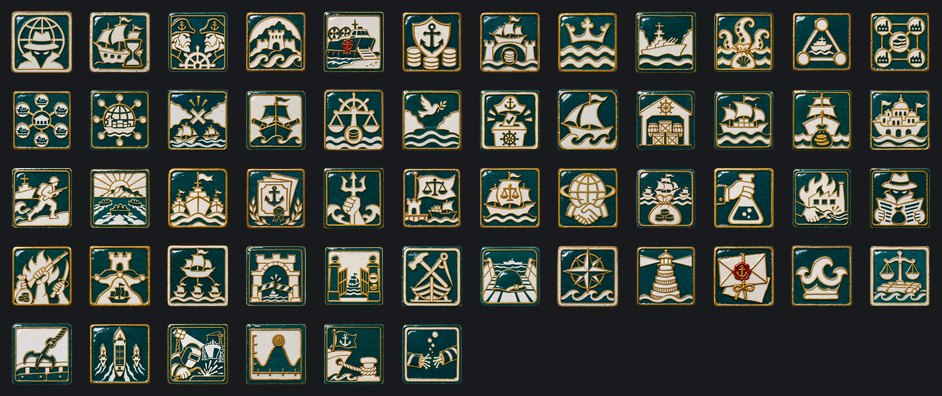
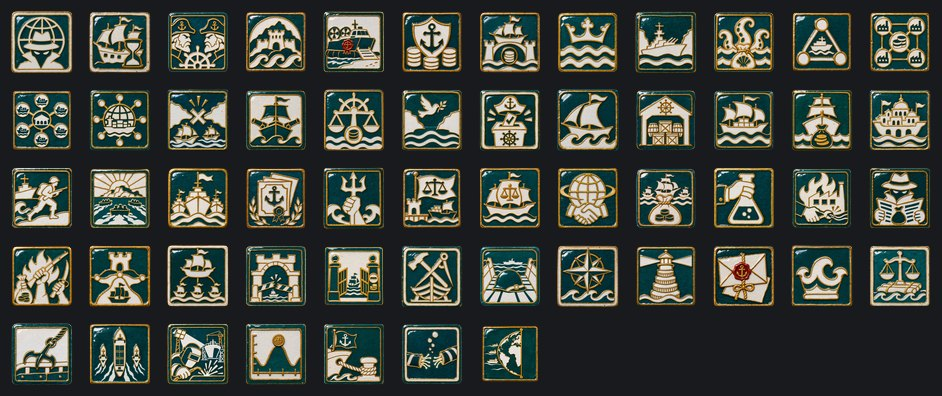
Mapa, prueba B del Pacífico: map_color_rgb opcional (solo HSN, SHD y ZJP en pastel); color_ui sigue siendo la identidad; brillo/saturación del juego sin tocar (override listo y apagado). Paneles: texto y acciones con barra de desplazamiento como las listas del juego; acciones condicionales al final;
Claude-Session: https://claude.ai/code/session_01A8YHnneTfjLNB5b1kqBkEs

Changed region(s): [[0.4926, 0.8182, 0.5849, 0.9697]]

diff --git a/tools/gen/emitters/paneles.py b/tools/gen/emitters/paneles.py
@@ -109,7 +109,7 @@ def emit(ctx: BuildContext) -> None:
     fx, fy, flado = posicion_ficha()
     ix, iy = arte.ICONO
     gui.append('\tcontainerWindowType = {\n\t\tname = "mn_panel_politica_window"\n'
-               f'\t\tposition = {{ x = {fx + 208} y = {fy + (flado - iy) // 2} }}\n'
+               f'\t\tposition = {{ x = {fx + 200} y = {fy + (flado - iy) // 2} }}\n'
                f'\t\tsize = {{ width = {ix} height = {iy} }}\n\t\torientation = upper_left\n')
     for p in hay:
         gui.append(f'\t\tbuttonType = {{\n\t\t\tname = "abrir_{p}"\n\t\t\tposition = {{ x = 0 y = 0 }}\n'
@@ -177,30 +177,34 @@ def emit(ctx: BuildContext) -> None:
                  f'\t\t\tposition = {{ x = {mx0 + (mx1 - mx0 - lado) // 2} y = {my0 + 4} }}\n\t\t\tscale = {escala}\n'
                  f'\t\t\tpdx_tooltip = "MN_PANEL_BOTON_TT_{p}"\n\t\t}}\n')
         g.append(_texto("valor", mx0 + 10, my1 - 30, f"MN_PANEL_VALOR_{p}", "hoi_18mbs", mx1 - mx0 - 20, 24, "centre"))
-        # el texto, con barra de desplazamiento
-        g.append(f'\t\tcontainerWindowType = {{\n\t\t\tname = "texto_caja"\n\t\t\tposition = {{ x = {tx0 + 8} y = {ty0 + 6} }}\n'
-                 f'\t\t\tsize = {{ width = {tx1 - tx0 - 14} height = {ty1 - ty0 - 12} }}\n'
-                 '\t\t\tverticalScrollbar = "right_vertical_slider"\n\t\t\tscroll_wheel_factor = 40\n\t\t\tsmooth_scrolling = yes\n'
-                 '\t\t\tmargin = { top = 2 bottom = 2 }\n'
-                 + _texto("texto", 0, 0, f"MN_PANEL_TEXTO_{p}", "hoi_16mbs", tx1 - tx0 - 40, 1400, "left", fijo=False, tab="\t\t\t")
-                 + "\t\t}\n")
-        # las acciones, en dos columnas, con barra de desplazamiento
+        # el texto, con barra de desplazamiento (2026-11-15, captura: el texto y los botones se salían
+        # del marco): como las listas del juego, el contenedor con barra lleva fondo (transparente),
+        # recorta (clipping) y adentro un contenedor del alto del contenido
+        tw, th = tx1 - tx0 - 14, ty1 - ty0 - 12
+        alto_texto = _alto_texto(ctx, cfg["categorias"], tw - 30)
+        g.append(_caja_con_barra("texto_caja", tx0 + 8, ty0 + 6, tw, th, alto_texto,
+                                 _texto("texto", 0, 0, f"MN_PANEL_TEXTO_{p}", "hoi_16mbs", tw - 30, alto_texto, "left",
+                                        tab="\t\t\t\t")))
+        # las acciones, en dos columnas: primero las que se ven siempre, al final las que aparecen
+        # solo a veces (restaurar una productora...), así sus huecos quedan abajo
         ax0, ay0, ax1, ay1 = z["acciones"]
         lista = [a for c in cfg["categorias"] for a in acciones.get(c, [])]
-        g.append(f'\t\tcontainerWindowType = {{\n\t\t\tname = "acciones"\n\t\t\tposition = {{ x = {ax0 + 6} y = {ay0 + 6} }}\n'
-                 f'\t\t\tsize = {{ width = {ax1 - ax0 - 12} height = {ay1 - ay0 - 12} }}\n'
-                 '\t\t\tverticalScrollbar = "right_vertical_slider"\n\t\t\tscroll_wheel_factor = 40\n\t\t\tsmooth_scrolling = yes\n')
+        lista.sort(key=lambda a: bool(a.get("visible") is not None and a["visible"].entries) or bool(a.get("una_vez")))
+        aw, ah = ax1 - ax0 - 12, ay1 - ay0 - 12
+        filas = (len(lista) + 1) // 2
+        botones = []
         for k, a in enumerate(lista):
             x, y = (k % 2) * (bw + 6), (k // 2) * arte.PASO_ACCION
-            g.append(f'\t\t\tbuttonType = {{\n\t\t\t\tname = "a_{a["id"]}"\n\t\t\t\tposition = {{ x = {x} y = {y} }}\n'
-                     f'\t\t\t\tspriteType = "GFX_mn_panel_{p}_boton"\n\t\t\t\ttext = "MN_PANEL_ACC_{a["id"]}"\n'
-                     f'\t\t\t\tbuttonFont = "hoi_16mbs"\n\t\t\t\tpdx_tooltip = "{a["id"]}_desc"\n\t\t\t}}\n')
+            botones.append(f'\t\t\t\tbuttonType = {{\n\t\t\t\t\tname = "a_{a["id"]}"\n\t\t\t\t\tposition = {{ x = {x} y = {y} }}\n'
+                           f'\t\t\t\t\tspriteType = "GFX_mn_panel_{p}_boton"\n\t\t\t\t\ttext = "MN_PANEL_ACC_{a["id"]}"\n'
+                           f'\t\t\t\t\tbuttonFont = "hoi_16mbs"\n\t\t\t\t\tpdx_tooltip = "{a["id"]}_desc"\n\t\t\t\t}}\n')
             en, es = a["nombre"]
             costo = int(a.get("costo") or 0)
             if costo:
                 en, es = f"{en}  ({costo} PP)", f"{es}  ({costo} PP)"
             ctx.loc.define_and_reference(f"MN_PANEL_ACC_{a['id']}", en=en, es=es, file="meganations_paneles", origin="paneles")
-        g.append("\t\t}\n\t}\n")
+        g.append(_caja_con_barra("acciones", ax0 + 6, ay0 + 6, aw, ah, max(ah, filas * arte.PASO_ACCION), "".join(botones)))
+        g.append("\t}\n")
         gui.append("".join(g))
         # -- su scripted GUI --
         s = [f"\tmn_panel_{p} = {{\n\t\tcontext_type = player_context\n\t\twindow_name = \"mn_panel_{p}_window\"\n"
@@ -243,6 +247,32 @@ def emit(ctx: BuildContext) -> None:
                    "\t\t}\n\t}\n}\n")
     n = sum(len(acciones.get(c, [])) for p in hay for c in PANELES[p]["categorias"])
     ctx.note(f"paneles del recurso: {len(hay)} ventanas propias ({', '.join(hay)}), {n} acciones como botones")
+
+
+def _caja_con_barra(nombre: str, x: int, y: int, w: int, h: int, alto: int, hijos: str) -> str:
+    """Contenedor con barra de desplazamiento como los del juego: fondo, recorte y un contenedor
+    interior del alto del contenido."""
+    return (f'\t\tcontainerWindowType = {{\n\t\t\tname = "{nombre}"\n\t\t\tposition = {{ x = {x} y = {y} }}\n'
+            f'\t\t\tsize = {{ width = {w} height = {h} }}\n\t\t\tclipping = yes\n'
+            '\t\t\tverticalScrollbar = "right_vertical_slider"\n\t\t\tscroll_wheel_factor = 40\n\t\t\tsmooth_scrolling = yes\n'
+            '\t\t\tbackground = {\n\t\t\t\tname = "Background"\n\t\t\t\tspriteType = "GFX_tiled_window_transparent"\n\t\t\t}\n'
+            f'\t\t\tcontainerWindowType = {{\n\t\t\t\tname = "{nombre}_contenido"\n\t\t\t\tposition = {{ x = 0 y = 0 }}\n'
+            f'\t\t\t\tsize = {{ width = {w - 24} height = {alto} }}\n'
+            + hijos + "\t\t\t}\n\t\t}\n")
+
+
+def _alto_texto(ctx: BuildContext, categorias: list[str], ancho: int) -> int:
+    """Alto aproximado del texto del panel (letra de 16: ~7 px por letra, 19 por renglón), con margen."""
+    import math
+    cats = {c["id"]: c for c in (ctx.spec.raw.get("decisions") or {}).get("categories") or []}
+    renglones = 0
+    por_renglon = max(20, ancho // 7)
+    for cid in categorias:
+        texto = str(((cats.get(cid) or {}).get("desc") or {}).get("spanish", ""))
+        for parrafo in texto.replace("\\n", "\n").split("\n"):
+            renglones += max(1, math.ceil(len(parrafo) / por_renglon))
+        renglones += 2
+    return renglones * 19 + 40
 
 
 def _texto(nombre: str, x: int, y: int, texto: str, font: str, w: int, h: int, fmt: str = "left",

diff --git a/tools/tests/test_gen.py b/tools/tests/test_gen.py
@@ -200,7 +200,7 @@ def test_spec_loads() -> None:
         fx, fy, fz = (t ** (1 / 3) if t > 0.008856 else 7.787 * t + 16 / 116 for t in xyz)
         return (116 * fy - 16, 500 * (fx - fy), 200 * (fy - fz))
     import math as _math
-    labs = {c.tag: _lab(c.color) for c in spec.countries}
+    labs = {c.tag: _lab(c.map_color) for c in spec.countries}   # el color del mapa (2026-11-15)
     closest = min((_math.dist(labs[a], labs[b]), a, b) for i, a in enumerate(labs) for b in list(labs)[i + 1:])
     check("colores de mapa: ningun par de paises se parece (Lab >= 15)", closest[0] >= 15, str(closest))
 
@@ -367,6 +367,18 @@ def test_full_build() -> None:
         colors = (mod / "common/countries/colors.txt").read_text()
         check("color en una linea: rgb { r g b }", "color = rgb { 42 132 54 }" in colors, colors[400:700])
         check("color_ui en una linea", "color_ui = rgb { 42 132 54 }" in colors)
+        # 2026-11-15 (prueba A/B del Pacífico): map_color_rgb solo cambia el color del mapa
+        check("mapa: HSN, SHD y ZJP con su pastel de prueba y color_ui de identidad",
+              "HSN = { color = rgb { 146 204 208 } color_ui = rgb { 12 120 138 } }" in " ".join(colors.split())
+              and "SHD = { color = rgb { 131 182 160 } color_ui = rgb { 120 198 168 } }" in " ".join(colors.split())
+              and "ZJP = { color = rgb { 236 197 212 } color_ui = rgb { 150 24 48 } }" in " ".join(colors.split()), colors[:300])
+        import re as _re_mod
+        _bloques = _re_mod.findall(r"(\w+) = \{\s*color = rgb \{ ([^}]*) \}\s*color_ui = rgb \{ ([^}]*) \}", colors)
+        check("mapa: solo tres colores de mapa distintos de su color de identidad (36 color_ui intactos)",
+              len(_bloques) == 36 and sorted(t for t, c, u in _bloques if c != u) == ["HSN", "SHD", "ZJP"], str(_bloques[:3]))
+        defs = (mod / "common/defines/00_meganations_defines.lua").read_text()
+        check("mapa: sin tocar brillo ni saturación del juego (prueba B usa los valores de A)",
+              "COUNTRY_COLOR" not in defs, defs)
         tags_text = (mod / "common/country_tags/00_meganations.txt").read_text()
         for tag in ("EFE", "ASC", "FCU", "NAS", "PTA", "YYG"):
             check(f"tag {tag} registrado", f"{tag} = " in tags_text)

diff --git a/tools/tests/_ciede2000.py b/tools/tests/_ciede2000.py
@@ -1,0 +1,30 @@
+"""Distancia de color CIEDE2000 (sRGB/D65), para las pruebas de la paleta del mapa (2026-11-15)."""
+import math, re, itertools, yaml, sys
+def lab(rgb):
+    def f(c):
+        c/=255; return ((c+0.055)/1.055)**2.4 if c>0.04045 else c/12.92
+    r,g,b=map(f,rgb)
+    x=(r*0.4124+g*0.3576+b*0.1805)/0.95047; y=r*0.2126+g*0.7152+b*0.0722; z=(r*0.0193+g*0.1192+b*0.9505)/1.08883
+    g_=lambda t: t**(1/3) if t>0.008856 else 7.787*t+16/116
+    return 116*g_(y)-16, 500*(g_(x)-g_(y)), 200*(g_(y)-g_(z))
+def de(c1,c2):
+    L1,a1,b1=lab(c1);L2,a2,b2=lab(c2)
+    C1=math.hypot(a1,b1);C2=math.hypot(a2,b2);Cb=(C1+C2)/2
+    G=0.5*(1-math.sqrt(Cb**7/(Cb**7+25**7)));a1p=a1*(1+G);a2p=a2*(1+G)
+    C1p=math.hypot(a1p,b1);C2p=math.hypot(a2p,b2)
+    h1=math.degrees(math.atan2(b1,a1p))%360;h2=math.degrees(math.atan2(b2,a2p))%360
+    dL=L2-L1;dC=C2p-C1p
+    dh=h2-h1
+    if C1p*C2p==0: dh=0
+    elif dh>180: dh-=360
+    elif dh<-180: dh+=360
+    dH=2*math.sqrt(C1p*C2p)*math.sin(math.radians(dh/2))
+    Lb=(L1+L2)/2;Cbp=(C1p+C2p)/2
+    if C1p*C2p==0: hb=h1+h2
+    elif abs(h1-h2)<=180: hb=(h1+h2)/2
+    elif h1+h2<360: hb=(h1+h2+360)/2
+    else: hb=(h1+h2-360)/2
+    T=1-0.17*math.cos(math.radians(hb-30))+0.24*math.cos(math.radians(2*hb))+0.32*math.cos(math.radians(3*hb+6))-0.20*math.cos(math.radians(4*hb-63))
+    dt=30*math.exp(-((hb-275)/25)**2);RC=2*math.sqrt(Cbp**7/(Cbp**7+25**7))
+    SL=1+0.015*(Lb-50)**2/math.sqrt(20+(Lb-50)**2);SC=1+0.045*Cbp;SH=1+0.015*Cbp*T;RT=-math.sin(math.radians(2*dt))*RC
+    return math.sqrt((dL/SL)**2+(dC/SC)**2+(dH/SH)**2+RT*(dC/SC)*(dH/SH))

diff --git a/tools/gen/emitters/scenario.py b/tools/gen/emitters/scenario.py
@@ -29,11 +29,11 @@ NO_COUNTRY = "---"    # ningún país preseleccionado (como el juego base)
 
 def emit(ctx: BuildContext) -> None:
     scenario = ctx.spec.raw["scenario"]
-    _emit_defines(ctx, scenario["game_dates"])
+    _emit_defines(ctx, scenario["game_dates"], scenario.get("map_colors"))
     _emit_bookmark(ctx, scenario["bookmark"])
 
 
-def _emit_defines(ctx: BuildContext, dates: dict) -> None:
+def _emit_defines(ctx: BuildContext, dates: dict, mapa: dict | None = None) -> None:
     if ctx.vanilla is not None:
         defines = ctx.vanilla.root / "common" / "defines" / "00_defines.lua"
         if defines.exists():
@@ -50,6 +50,12 @@ def _emit_defines(ctx: BuildContext, dates: dict) -> None:
         f'NDefines.NGame.END_DATE = "{dates["end"]}"',
         "",
     ]
+    # 2026-11-15: color de los países en el mapa (11_scenario.yaml -> map_colors)
+    for clave, define in (("saturation", "COUNTRY_COLOR_SATURATION_MODIFIER"),
+                          ("brightness", "COUNTRY_COLOR_BRIGHTNESS_MODIFIER")):
+        if (mapa or {}).get(clave) is not None:
+            lines.append(f"NDefines_Graphics.NGraphics.{define} = {float(mapa[clave])}")
+    lines.append("")
     ctx.write_text("common/defines/00_meganations_defines.lua", "\n".join(lines))
 
 

diff --git a/tools/gen/specload.py b/tools/gen/specload.py
@@ -236,6 +236,13 @@ class Country:
     raw: dict[str, Any]
 
     @property
+    def map_color(self) -> tuple[int, int, int]:
+        """Color del MAPA (2026-11-15, prueba del Pacífico): `map_color_rgb` si está; si no, el de
+        identidad (`color_rgb`), que siguen usando la interfaz, las banderas y los retratos provisorios."""
+        c = self.raw.get("map_color_rgb")
+        return tuple(c) if c and len(c) == 3 else self.color  # type: ignore[return-value]
+
+    @property
     def filename(self) -> str:
         """Nombre del archivo en common/countries/. Sin espacios: los espacios
         en rutas de Paradox funcionan pero complican los scripts."""

diff --git a/tools/gen/emitters/countries.py b/tools/gen/emitters/countries.py
@@ -69,7 +69,9 @@ def _emit_colors(ctx: BuildContext) -> None:
     b = Block()
     for c in sorted(ctx.spec.countries, key=lambda x: x.tag):
         entry = Block()
-        entry.add("color", _rgb(c.color))
+        # 2026-11-15: el mapa puede llevar su propio color (map_color_rgb); color_ui sigue siendo el
+        # de identidad (también tiñe el fondo de las fichas de división con color nacional)
+        entry.add("color", _rgb(c.map_color))
         entry.add("color_ui", _rgb(c.color))
         b.add(c.tag, entry)
     ctx.write_script("common/countries/colors.txt", b, source=SOURCE)
